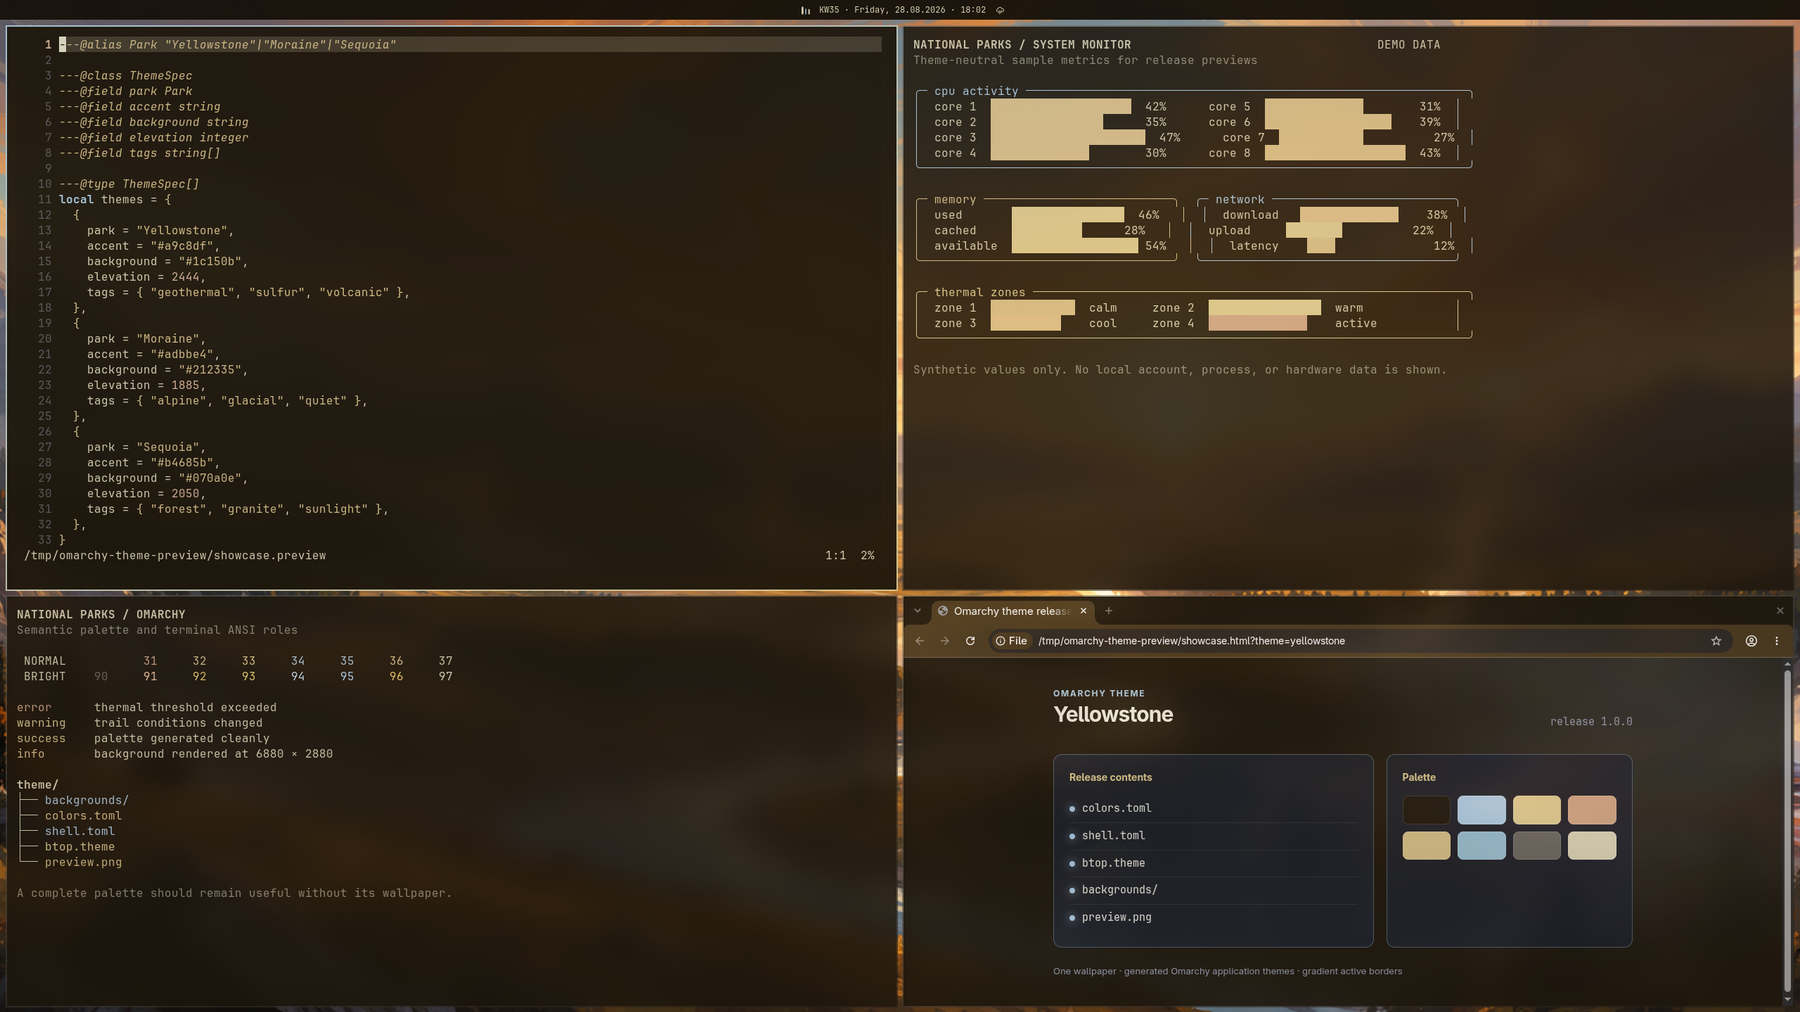
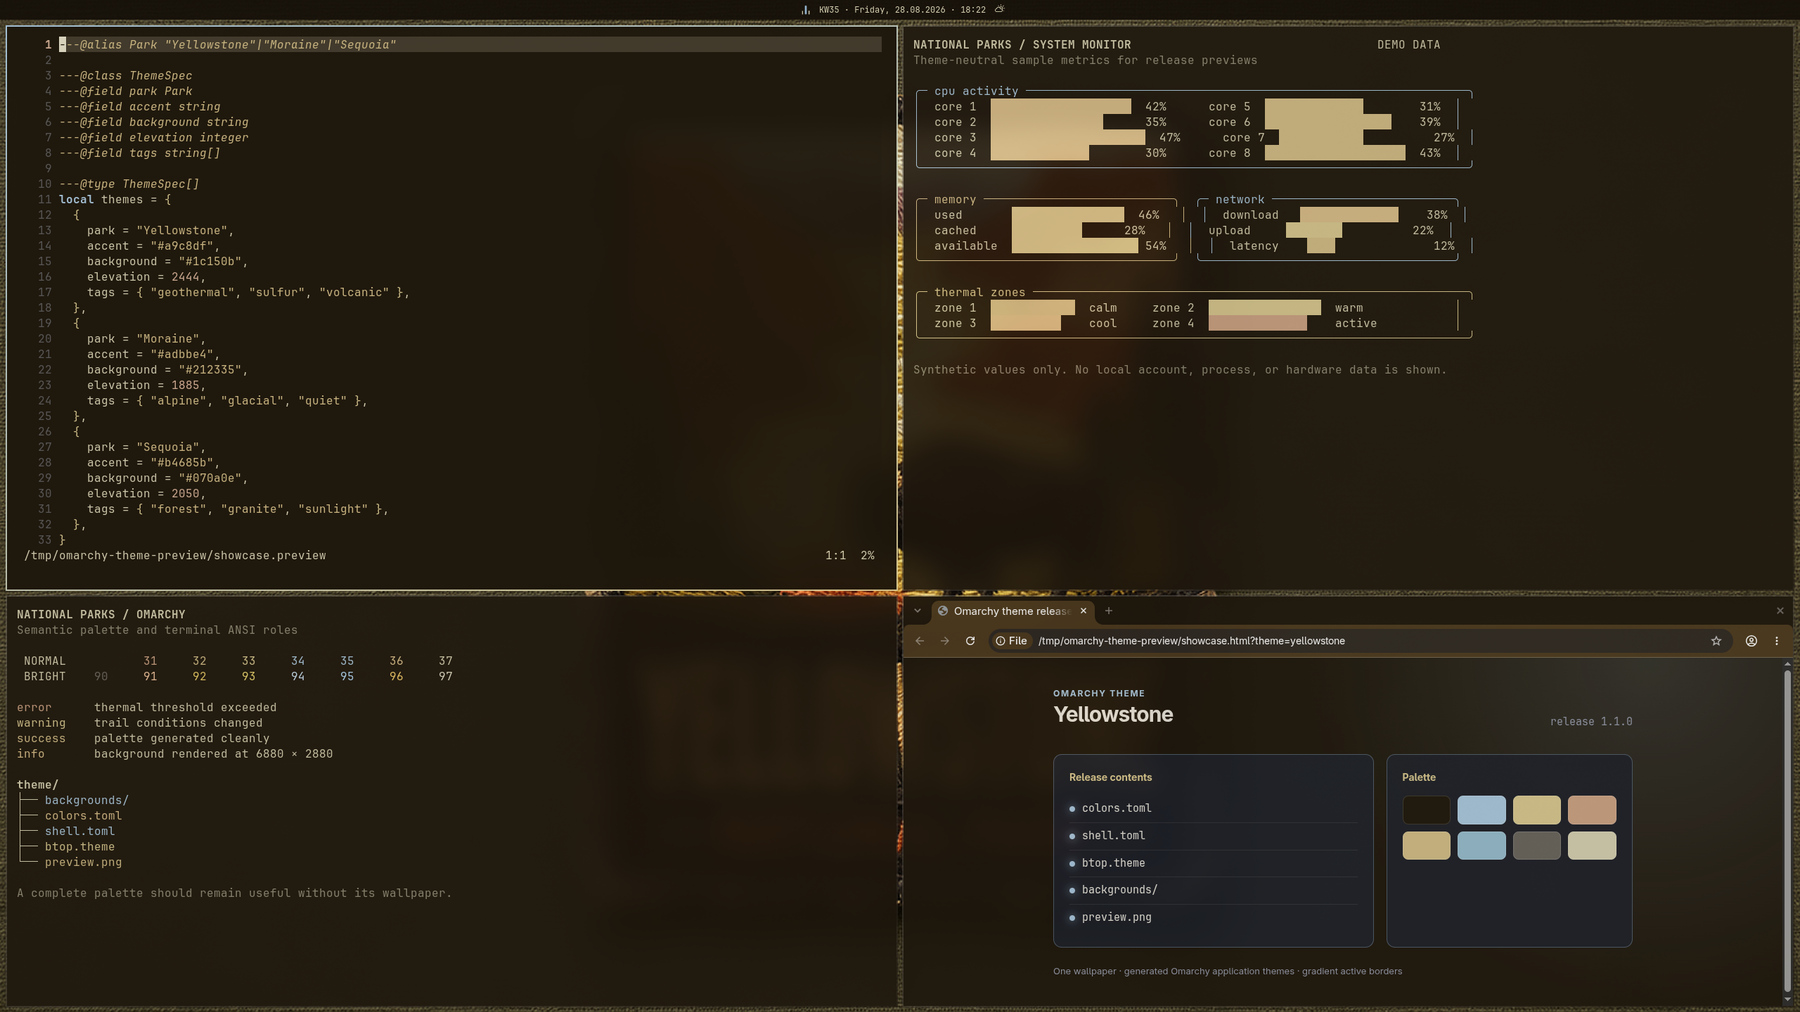
Add embroidered patch wallpaper

diff --git a/README.md b/README.md
@@ -1,6 +1,6 @@
 # Yellowstone for Omarchy
 
-A dark Omarchy theme built around volcanic brown, geothermal blue, sulfur gold, pale steam, and sunset stone. Its palette was generated from the included Yellowstone wallpaper with Aether, then adjusted to replace lavender with pastel blue.
+A dark Omarchy theme built around volcanic brown, geothermal blue, sulfur gold, pale steam, and sunset stone. Its palette was generated from the original illustrated Yellowstone wallpaper with Aether, then adjusted to replace lavender with pastel blue. The embroidered patch wallpaper is the default.
 
 ![Yellowstone desktop preview](preview.png)
 
@@ -21,7 +21,7 @@ omarchy theme set yellowstone
 - `colors.toml` defines complete Omarchy semantic and ANSI color roles.
 - `shell.toml` uses geothermal-blue-to-sulfur borders over volcanic brown surfaces.
 - `btop.theme`, `chromium.theme`, and `icons.theme` cover app-specific details.
-- `backgrounds/yellowstone-6880x2880.png` is the single 6880×2880 wallpaper.
+- `backgrounds/` contains two 6880×2880 wallpapers; the embroidered patch is the default.
 - `preview.png` is the 1800×1012 gallery preview.
 - `DESIGN.md` records the palette and visual rules.
 
@@ -29,8 +29,8 @@ Omarchy generates Hyprland, terminal, Neovim, Helix, Pi, Obsidian, keyboard, and
 
 ## Artwork and affiliation
 
-The wallpaper and preview were created by nibra180. The theme is inspired by Yellowstone National Park and is not affiliated with or endorsed by the National Park Service. See [ASSETS.md](ASSETS.md) for attribution details.
+The wallpapers and preview were created by nibra180. The theme is inspired by Yellowstone National Park and is not affiliated with or endorsed by the National Park Service. See [ASSETS.md](ASSETS.md) for attribution details.
 
 ## License
 
-Theme configuration and documentation are licensed under the [MIT License](LICENSE). The wallpaper and preview are licensed under [CC BY 4.0](LICENSES/CC-BY-4.0.txt).
+Theme configuration and documentation are licensed under the [MIT License](LICENSE). The wallpapers and preview are licensed under [CC BY 4.0](LICENSES/CC-BY-4.0.txt).

diff --git a/ASSETS.md b/ASSETS.md
@@ -2,11 +2,12 @@
 
 The following files were created by nibra180 in 2026:
 
+- `backgrounds/00-yellowstone-patch-6880x2880.png`
 - `backgrounds/yellowstone-6880x2880.png`
 - `preview.png`
 
 They are licensed under the [Creative Commons Attribution 4.0 International License](LICENSES/CC-BY-4.0.txt).
 
-When redistributing either file, credit "Yellowstone artwork by nibra180" and link to <https://github.com/nibra180/omarchy-yellowstone-theme>.
+When redistributing these files, credit "Yellowstone artwork by nibra180" and link to <https://github.com/nibra180/omarchy-yellowstone-theme>.
 
 The Yellowstone name identifies the park that inspired the theme. This project is not affiliated with or endorsed by the National Park Service.

diff --git a/DESIGN.md b/DESIGN.md
@@ -27,6 +27,7 @@ The theme starts with the Aether palette generated for the current wallpaper. Th
 4. Preserve separation between pastel blue, gold, and sunset stone.
 5. Use the vertical selected-row marker sparingly.
 6. Do not use the National Park Service arrowhead or imply NPS endorsement.
+7. Keep the embroidered patch wallpaper sorted first as the default; keep the illustrated landscape as the alternate.
 
 ## Release checklist
 
